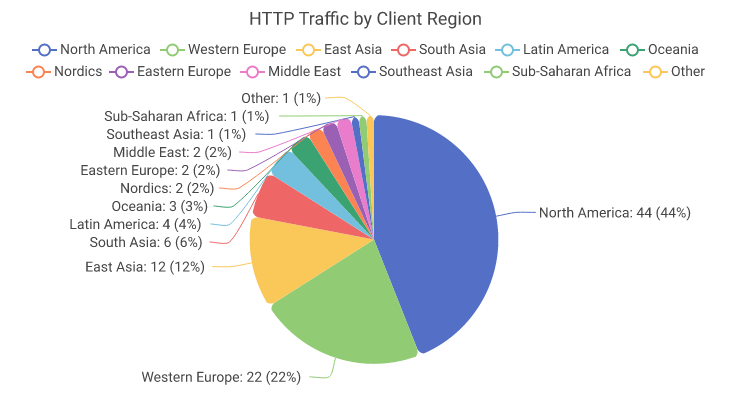
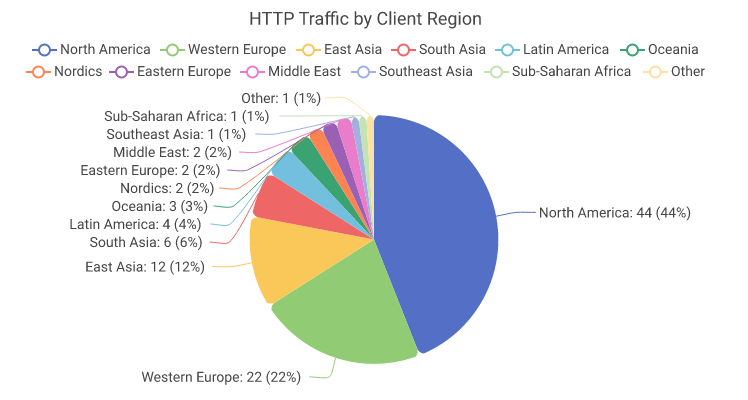
fix(mermaid): derive extra pie colors instead of repeating the palette

diff --git a/src/charts/mermaid/adapters/pie.rs b/src/charts/mermaid/adapters/pie.rs
@@ -12,6 +12,7 @@
 
 //! Mermaid `pie` diagram adapter -> [`PieChart`](crate::PieChart).
 
+use super::super::super::color::Color;
 use super::super::super::common::Series;
 use super::super::super::error::{Error, Result};
 use super::super::super::font::measure_text_width_family;
@@ -19,7 +20,30 @@ use super::super::super::pie_chart::PieChart;
 use super::super::super::util::format_float;
 use super::super::MermaidChart;
 use super::super::preprocess::SourceLine;
+use super::super::style::mix_color;
 use super::apply_base_options;
+
+/// Extends `colors` to at least `n` entries by mixing wrapped base colors
+/// alternately toward white (odd cycles) and black (even cycles), preserving
+/// alpha.
+fn extend_palette(colors: &[Color], n: usize) -> Vec<Color> {
+    if colors.is_empty() || n <= colors.len() {
+        return colors.to_vec();
+    }
+    let mut out = Vec::with_capacity(n);
+    out.extend_from_slice(colors);
+    for i in colors.len()..n {
+        let k = i / colors.len();
+        let c = colors[i % colors.len()];
+        let derived = if k % 2 == 1 {
+            mix_color(c, (255, 255, 255, c.a).into(), 0.45)
+        } else {
+            mix_color(c, (0, 0, 0, c.a).into(), 0.30)
+        };
+        out.push(derived);
+    }
+    out
+}
 
 fn parse_pie_entry(line: &str, line_no: usize) -> Result<Series> {
     let trimmed = line.trim();
@@ -129,6 +153,10 @@ pub(crate) fn render(
     }
 
     let mut pie = PieChart::new_with_theme(series_list, theme_name);
+    let n = pie.series_list.len();
+    if !pie.series.colors.is_empty() && n > pie.series.colors.len() {
+        pie.series.colors = extend_palette(&pie.series.colors, n);
+    }
     pie.rose_type = Some(false);
     pie.inner_radius = 0.0;
     pie.legend.show = Some(true);
@@ -160,4 +188,55 @@ pub(crate) fn render(
     apply_base_options(chart, &mut pie.base, title.as_deref(), default_width, 400.0);
     let (w, h) = (pie.width, pie.height);
     Ok((pie.svg()?, w, h))
+}
+
+#[cfg(test)]
+mod tests {
+    use super::*;
+    use std::collections::HashSet;
+
+    #[test]
+    fn extend_palette_derives_distinct_tint_and_shade_cycles() {
+        let base = vec![
+            Color::from((84, 112, 198, 200)),
+            Color::from((145, 204, 117, 200)),
+        ];
+        // Short targets return the base palette untouched.
+        assert_eq!(extend_palette(&base, 2), base);
+        assert!(extend_palette(&[], 4).is_empty());
+
+        let extended = extend_palette(&base, 6);
+        assert_eq!(extended.len(), 6);
+        // Cycle 1 (odd) tints toward white, preserving alpha.
+        assert_eq!(extended[2].a, 200);
+        assert!(extended[2].r > base[0].r);
+        // Cycle 2 (even) shades toward black, preserving alpha.
+        assert_eq!(extended[4].a, 200);
+        assert!(extended[4].r < base[0].r);
+
+        let unique: HashSet<(u8, u8, u8, u8)> =
+            extended.iter().map(|c| (c.r, c.g, c.b, c.a)).collect();
+        assert_eq!(unique.len(), 6);
+    }
+
+    #[test]
+    fn many_slice_pie_assigns_distinct_slice_colors() {
+        let chart = MermaidChart::from_json(include_str!(
+            "../../../../asset/mermaid_chart/pie_many_slices.json"
+        ))
+        .unwrap();
+        let svg = chart.svg().unwrap();
+        let fills: Vec<&str> = svg
+            .lines()
+            .filter(|l| l.starts_with("<path ") && l.contains("data-series=\""))
+            .map(|l| {
+                let start = l.find("fill=\"").unwrap() + 6;
+                let end = start + l[start..].find('"').unwrap();
+                &l[start..end]
+            })
+            .collect();
+        assert_eq!(fills.len(), 12, "{svg}");
+        let unique: HashSet<&str> = fills.iter().copied().collect();
+        assert_eq!(unique.len(), 12, "fills={fills:?}");
+    }
 }
